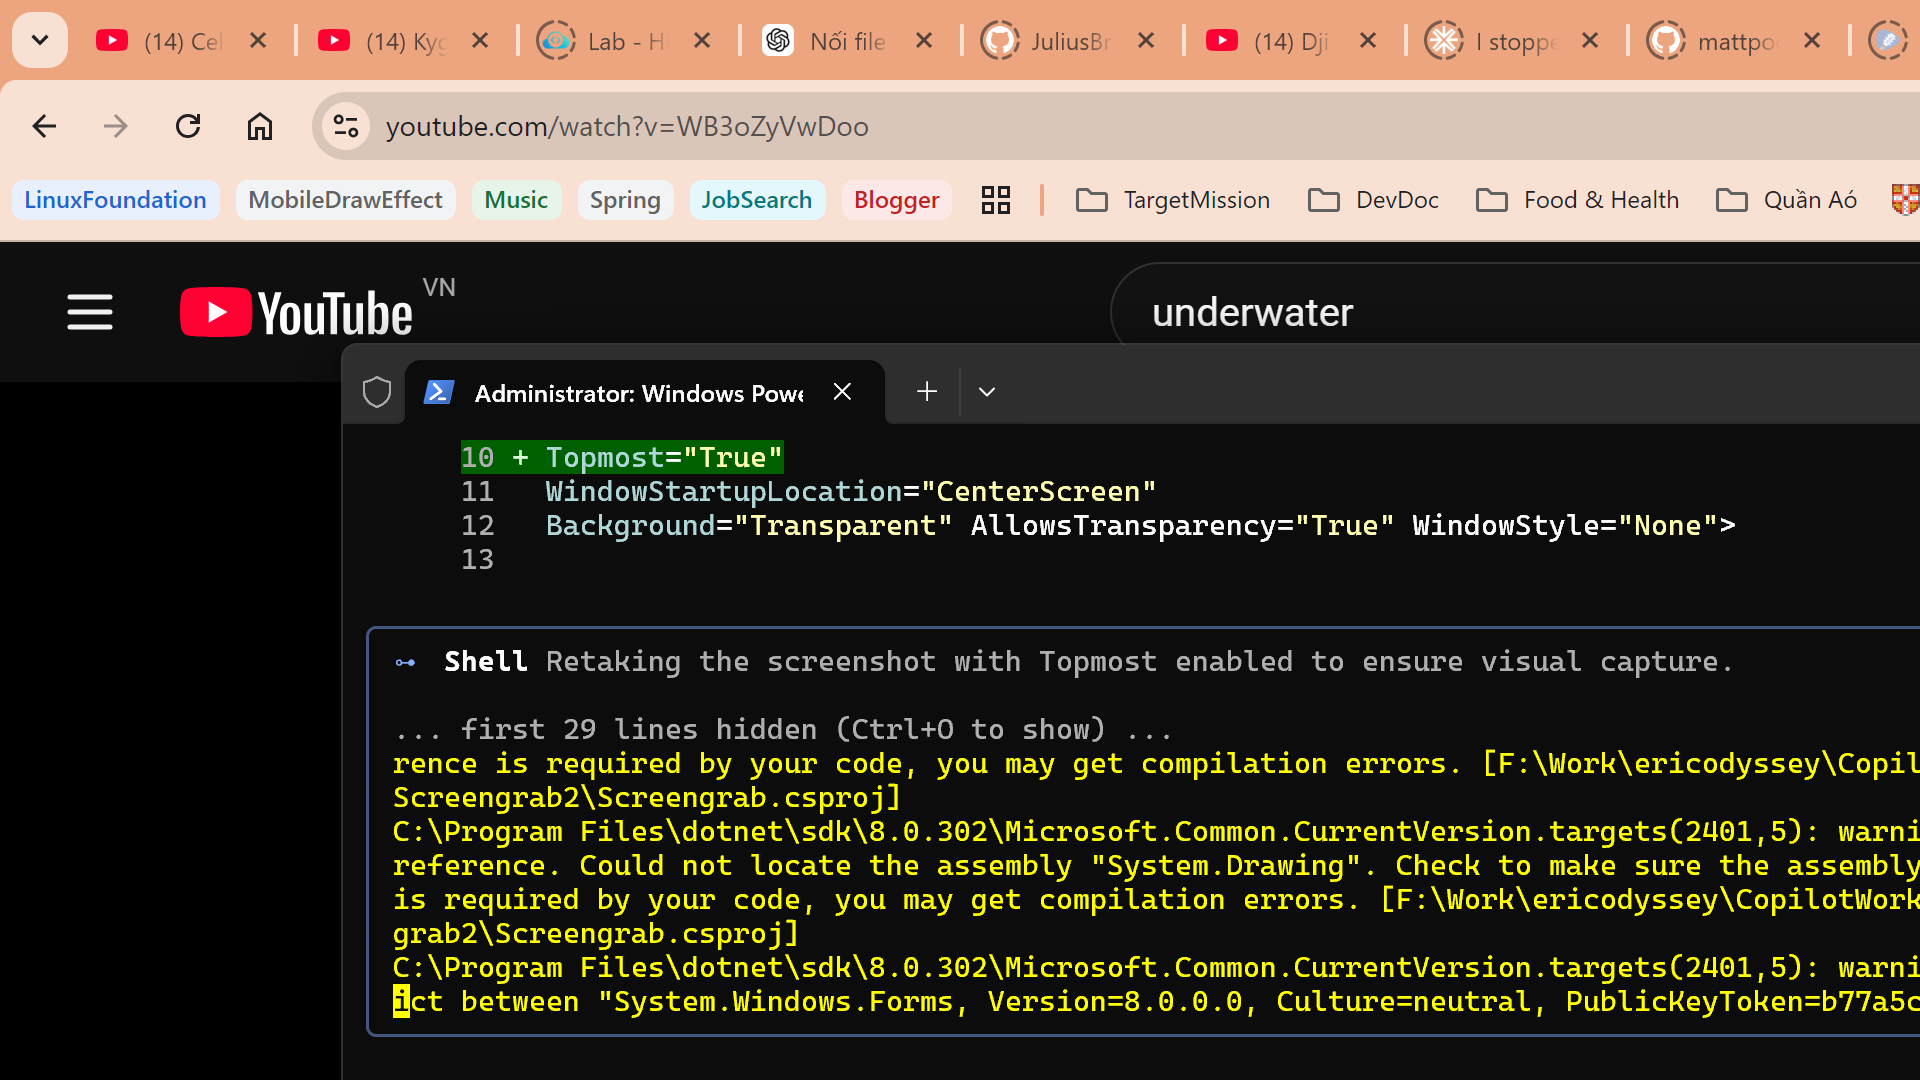
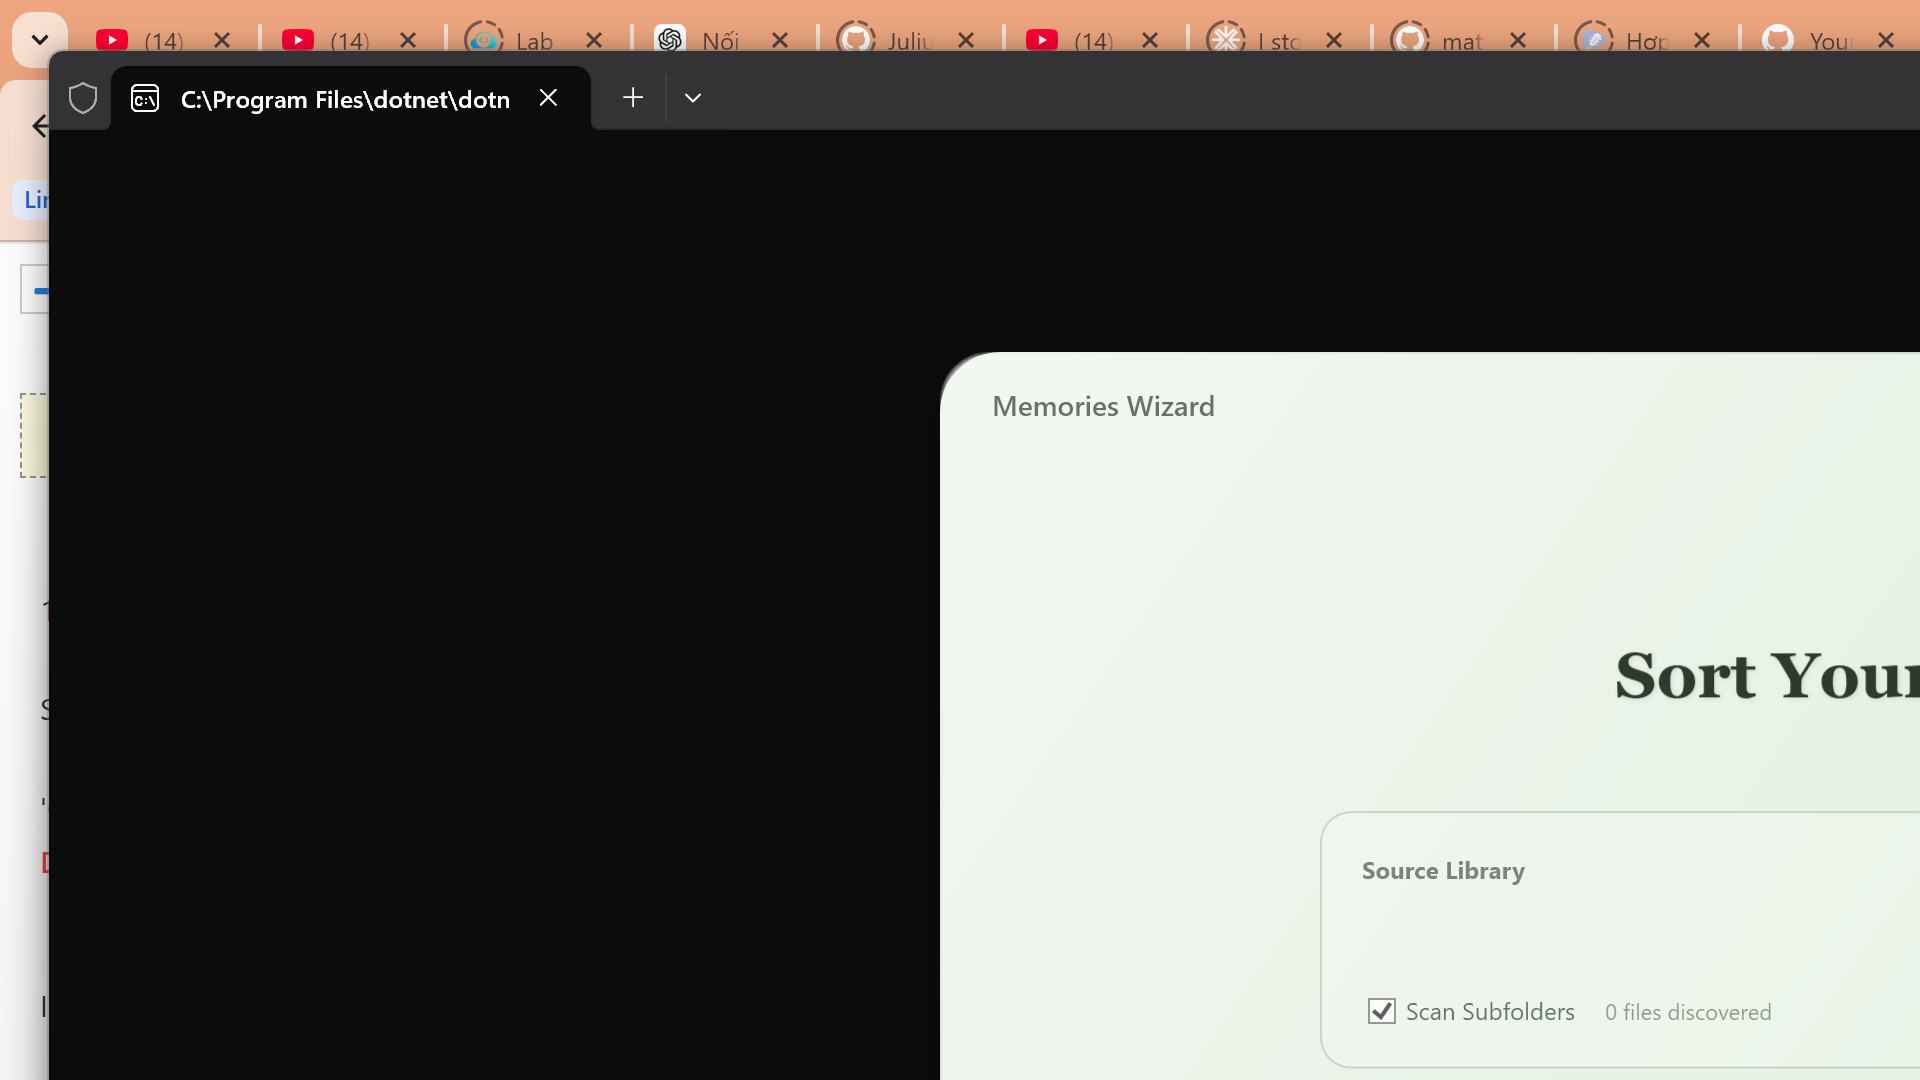
Fix: Resolved startup crash and updated screenshot

diff --git a/win/MainWindow.xaml b/win/MainWindow.xaml
@@ -6,7 +6,7 @@
         xmlns:local="clr-namespace:MemoriesWizard"
         mc:Ignorable="d"
         Title="Memories Wizard" Height="700" Width="1000"
-        Icon="Resources/app_icon.ico"
+        Icon="Resources/icon.png"
         WindowStartupLocation="CenterScreen"
         Background="Transparent" AllowsTransparency="True" WindowStyle="None">
     

diff --git a/win/App.xaml.cs b/win/App.xaml.cs
@@ -1,6 +1,8 @@
 using System.Configuration;
 using System.Data;
 using System.Windows;
+using System.IO;
+using System;
 
 namespace MemoriesWizard;
 
@@ -17,7 +19,9 @@ public partial class App : Application
 
     private void App_DispatcherUnhandledException(object sender, System.Windows.Threading.DispatcherUnhandledExceptionEventArgs e)
     {
-        MessageBox.Show($"A critical error occurred: {e.Exception.Message}\n\nStack Trace: {e.Exception.StackTrace}", "Critical Error", MessageBoxButton.OK, MessageBoxImage.Error);
+        string logPath = Path.Combine(AppDomain.CurrentDomain.BaseDirectory, "crash.log");
+        File.WriteAllText(logPath, $"Error: {e.Exception.Message}\nStack: {e.Exception.StackTrace}");
+        MessageBox.Show($"A critical error occurred. Log saved to: {logPath}\n\nError: {e.Exception.Message}", "Critical Error", MessageBoxButton.OK, MessageBoxImage.Error);
         e.Handled = true;
     }
 }
